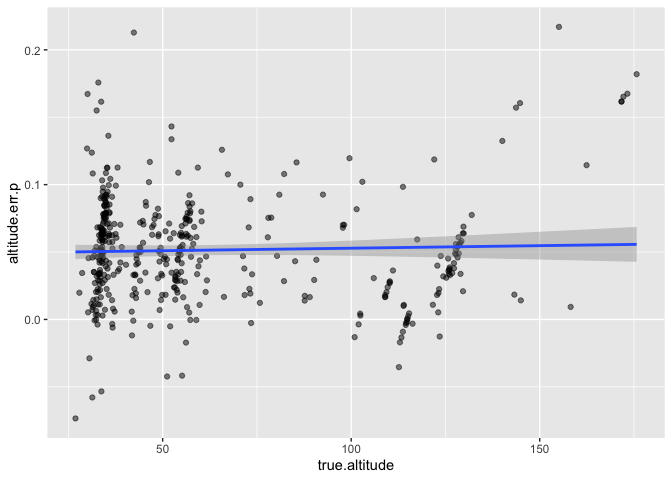
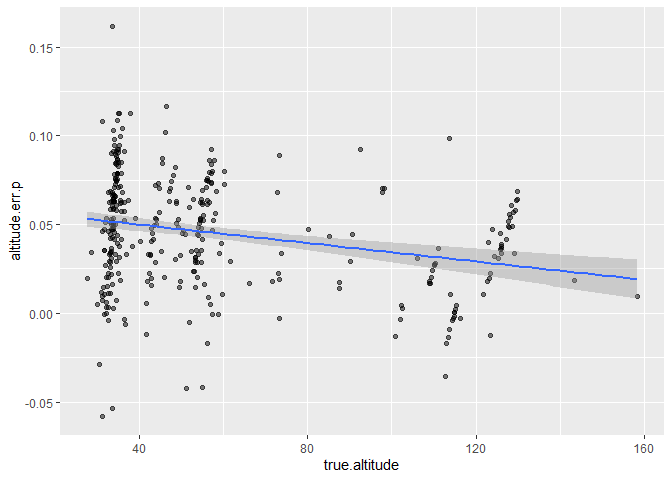
re ran notebook eliminating non-nadir images

diff --git a/README.md b/README.md
@@ -1,7 +1,7 @@
 ## Callibration data
 
-This Dataset has 426 images of Balaena taken during different flights
-and dates.
+This Dataset has 343 images of Balaena (at nadir) taken during different
+flights and dates.
 
 -   altitudeRaw: the altitude indicated by DJI (zeroed at takeoff).
 
@@ -11,6 +11,9 @@ and dates.
 
 -   position: whether Balaena was in the center of the frame (pos\_c) or
     closer to the edges (pos\_o).
+
+-   nadir: confirms that the the gimbal pitch during the screenshot was
+    &lt;- 87 degrees (i.e., close to perpendicular)
 
 <!-- -->
 
@@ -23,13 +26,13 @@ and dates.
     ## 4 2023-04-08      199 DJI_0006.MP4_00_03_11_vlc00002.png      3:11       120.1
     ## 5 2023-04-08      199 DJI_0006.MP4_00_03_14_vlc00003.png      3:14       120.3
     ## 6 2023-04-08      199 DJI_0006.MP4_00_03_16_vlc00004.png      3:16       119.7
-    ##   imageWidth pixel.length position
-    ## 1       3840     654.6037    pos_c
-    ## 2       3840     672.1734    pos_c
-    ## 3       3840     282.6148    pos_o
-    ## 4       3840     282.4793    pos_o
-    ## 5       3840     283.7345    pos_o
-    ## 6       3840     287.1069    pos_o
+    ##   imageWidth pixel.length position nadir
+    ## 1       3840     654.6037    pos_c  TRUE
+    ## 2       3840     672.1734    pos_c  TRUE
+    ## 3       3840     282.6148    pos_o  TRUE
+    ## 4       3840     282.4793    pos_o  TRUE
+    ## 5       3840     283.7345    pos_o  TRUE
+    ## 6       3840     287.1069    pos_o  TRUE
 
 ## Correct initial altitude
 
@@ -64,13 +67,13 @@ as follows:*
     ## 4 2023-04-08      199 DJI_0006.MP4_00_03_11_vlc00002.png      3:11       120.1
     ## 5 2023-04-08      199 DJI_0006.MP4_00_03_14_vlc00003.png      3:14       120.3
     ## 6 2023-04-08      199 DJI_0006.MP4_00_03_16_vlc00004.png      3:16       119.7
-    ##   imageWidth pixel.length position altitude.fix
-    ## 1       3840     654.6037    pos_c       51.845
-    ## 2       3840     672.1734    pos_c       51.145
-    ## 3       3840     282.6148    pos_o      120.845
-    ## 4       3840     282.4793    pos_o      121.545
-    ## 5       3840     283.7345    pos_o      121.745
-    ## 6       3840     287.1069    pos_o      121.145
+    ##   imageWidth pixel.length position nadir altitude.fix
+    ## 1       3840     654.6037    pos_c  TRUE       51.845
+    ## 2       3840     672.1734    pos_c  TRUE       51.145
+    ## 3       3840     282.6148    pos_o  TRUE      120.845
+    ## 4       3840     282.4793    pos_o  TRUE      121.545
+    ## 5       3840     283.7345    pos_o  TRUE      121.745
+    ## 6       3840     287.1069    pos_o  TRUE      121.145
 
 Next, we use the following formula to calculate Balaena’s length
 according to the drone’s data: length = alpha \* altitude \*
@@ -98,7 +101,7 @@ This results in the following estimated length for Balaena:
     summary(dat$bal.length)
 
     ##    Min. 1st Qu.  Median    Mean 3rd Qu.    Max. 
-    ##   9.419  11.167  11.447  11.412  11.706  12.914
+    ##   10.09   11.21   11.46   11.48   11.75   12.73
 
     hist(dat$bal.length, breaks = 20, xlab = "estimated length of Balaena (m)", main = "")
     abline(v = 12.03, col = 2, lwd = 2)
@@ -117,11 +120,11 @@ This means there is an under-estimate of Balaena’s length of mean =
     dat$error <- dat$bal.length-12.03
     mean(dat$error)
 
-    ## [1] -0.6182008
+    ## [1] -0.546828
 
     sd(dat$error)
 
-    ## [1] 0.4785994
+    ## [1] 0.3796155
 
 ## Questions
 
@@ -156,7 +159,7 @@ Next, I estimated the altitude error as a raw value and a percentage:
     dat$altitude.err <- dat$true.altitude - dat$altitude.fix
     dat$altitude.err.p <- (dat$altitude.err/dat$true.altitude)
 
-Which results in the following error distribution in cm:
+Which results in the following error distribution in m:
 
     hist(dat$altitude.err, breaks = 30, xlab = "altitude error (m)", 
          main = "")
@@ -193,12 +196,12 @@ Which looks like error is proportional, more than an added constant
 
     mean(dat$altitude.err.p)
 
-    ## [1] 0.05138826
+    ## [1] 0.04545537
 
     quantile(dat$altitude.err.p, probs = c(0.05, 0.95))
 
-    ##           5%          95% 
-    ## -0.003057229  0.118209445
+    ##          5%         95% 
+    ## -0.00363185  0.09236528
 
 So if I add this percent altitude to my correction:
 
@@ -211,7 +214,7 @@ So if I add this percent altitude to my correction:
     quantile(dat$bal.length.c, probs = c(0.05, 0.5, 0.95))
 
     ##       5%      50%      95% 
-    ## 11.15306 12.03511 12.68687
+    ## 11.41517 11.98407 12.62251
 
     hist(dat$bal.length.c, breaks = 30, main = "", xlab = "estimated length")
     abline(v = 12.03, col = 2, lwd = 2)
@@ -246,4 +249,4 @@ What is the 95% confidence interval:
     quantile(dat$length.error.c.p, probs=c(0.05, 0.95))
 
     ##        5%       95% 
-    ## -7.862824  5.177547
+    ## -5.386118  4.694037
